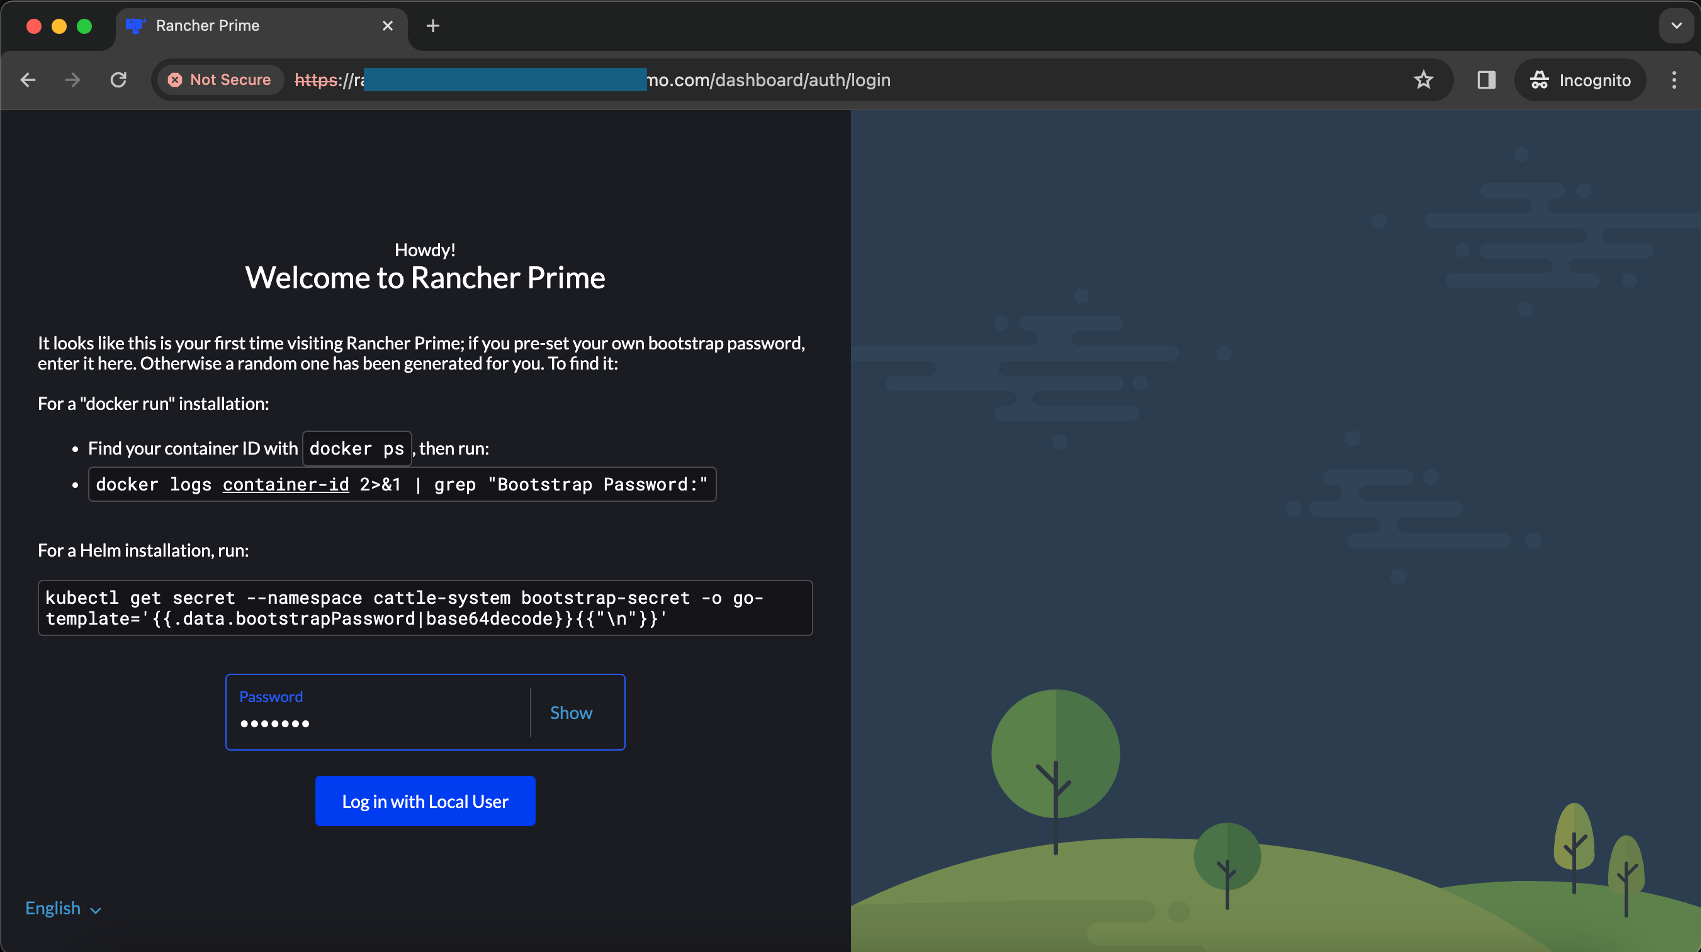
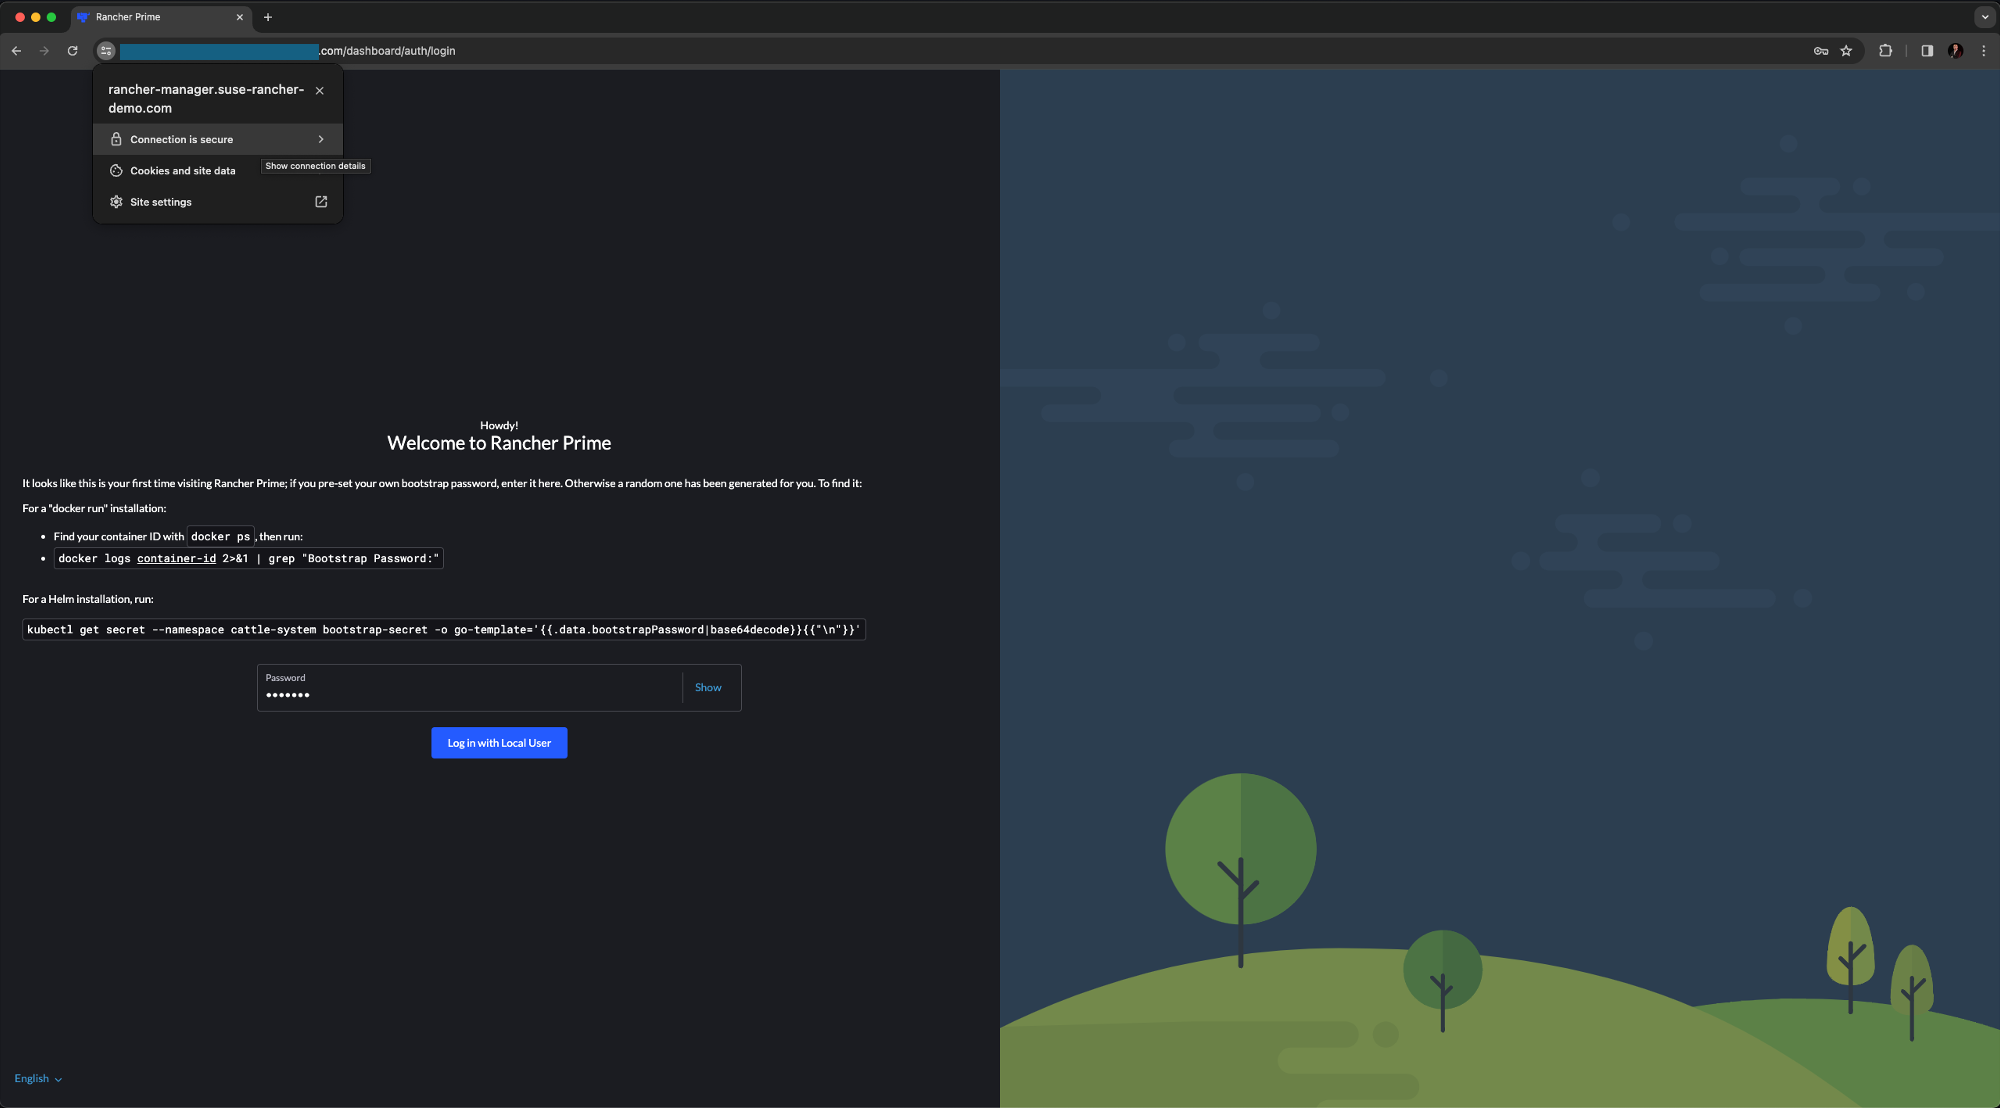
fc

diff --git a/02- Rancher-with-Lets-Encrypt-Signed-Cert/README.md b/02- Rancher-with-Lets-Encrypt-Signed-Cert/README.md
@@ -141,13 +141,13 @@ helm repo update
 # Install Rancher Prime Manager version 2.6.5 with one replica and a bootstrap password of rancher and use a let's Encrypt Signed Cert and force the creation of a dedicated namespace. Note that with Let's Encrypt a working email must be provided
 helm install rancher rancher-prime/rancher \
   --namespace cattle-system \
-  --set hostname=<rancher-manager-fqdn> \
+  --set hostname=rancher-manager.suse-rancher-demo.com \
   --set replicas=1 \
   --version 2.7.5 \
   --create-namespace \
   --set bootstrapPassword=rancher \
   --set ingress.tls.source=letsEncrypt \
-  --set letsEncrypt.email=example@suse.com 
+  --set letsEncrypt.email=taher.shaker@suse.com 
 ```
 
 ---
@@ -178,7 +178,7 @@ kubectl -n cattle-system get deployments
 > Check Rancher Prime Manager UI responsiveness
 
 ```bash
-while true; do curl -kv https://<rancher-manager-fqdn> 2>&1 | grep -q "dynamiclistener-ca"; if [ $? != 0 ]; then echo "Rancher Prime Manager UI is not responsive yet"; sleep 5; continue; fi; break; done; echo "Rancher Prime Manager UI is now responsive, Your Rancher Deployment is Ready";
+while true; do curl -kv https://rancher-manager.suse-rancher-demo.com 2>&1 | grep -q "dynamiclistener-ca"; if [ $? != 0 ]; then echo "Rancher Prime Manager UI is not responsive yet"; sleep 5; continue; fi; break; done; echo "Rancher Prime Manager UI is now responsive, Your Rancher Deployment is Ready";
 ```
 
 ---
